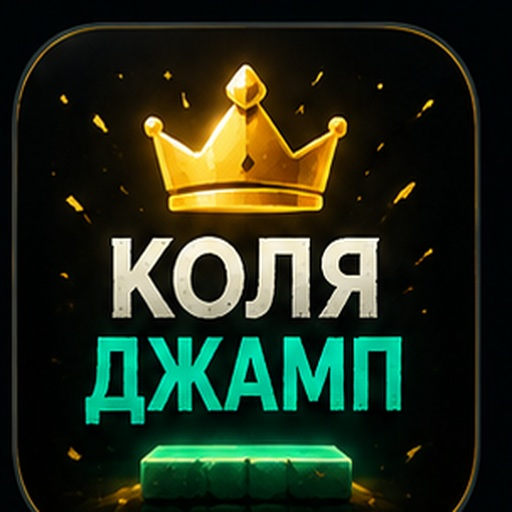
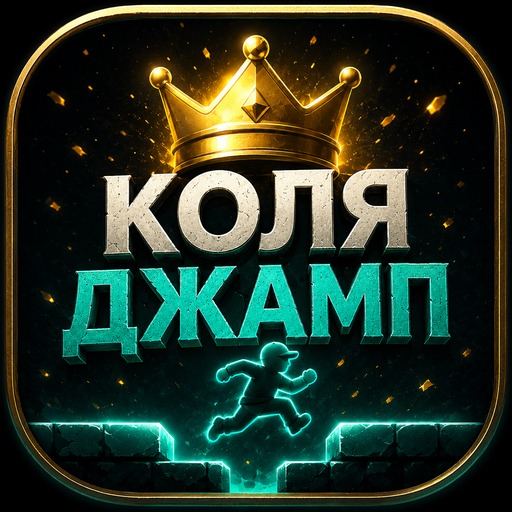
Add files via upload

diff --git a/index.html b/index.html
@@ -417,27 +417,15 @@ html,body{overscroll-behavior:none}
 @keyframes kjSpin{to{transform:rotate(360deg)}}
 </style>
 
-<style id="kolyajump-main-icon-v101">
-.kolyajumpMenuIcon,
-[data-game="kolyajump"] .gameIcon,
-[data-game="kolyajump"] .appIcon,
-#kolyajumpBtn .gameIcon,
-#kolyajumpBtn .appIcon,
-#kolyajumpBtn .icon{
-  background-image:url("./kolyajump-icon.jpg")!important;
-  background-size:cover!important;
-  background-position:center!important;
-  background-repeat:no-repeat!important;
-  color:transparent!important;
-  overflow:hidden!important;
+<style id="kj-game-tile-icon-v101">
+.kjGameTileIcon{
+  width:58px;height:58px;flex:0 0 58px;
+  border-radius:16px;overflow:hidden;
+  background:#071413;
+  box-shadow:0 5px 14px rgba(0,0,0,.16);
 }
-.kolyajumpMenuIcon img,
-[data-game="kolyajump"] .gameIcon img,
-[data-game="kolyajump"] .appIcon img,
-#kolyajumpBtn .gameIcon img,
-#kolyajumpBtn .appIcon img,
-#kolyajumpBtn .icon img{
-  width:100%!important;height:100%!important;object-fit:cover!important;
+.kjGameTileIcon img{
+  width:100%;height:100%;display:block;object-fit:cover;
 }
 </style>
 
@@ -474,7 +462,7 @@ html,body{overscroll-behavior:none}
       <div class="toprow">
         <div class="groupAvatar">Б</div>
         <div class="titleWrap">
-          <div class="brandLockup"><img class="brandLogo" src="./kolyajump-icon.jpg" alt=""><div class="brandName">КОЛЯГРАМ</div></div><div id="mode" style="display:none"></div>
+          <div class="brandLockup"><img class="brandLogo" src="./kolyagram-logo.jpg" alt=""><div class="brandName">КОЛЯГРАМ</div></div><div id="mode" style="display:none"></div>
         </div>
         
 
@@ -505,7 +493,7 @@ html,body{overscroll-behavior:none}
 
     <div id="gamesPanel" class="panel" style="display:none">
       <button id="openKolyaJump" class="chatRow" style="width:100%;text-align:left">
-        <div class="groupAvatar" style="background:linear-gradient(135deg,#81D8D0,#b8fff8);color:#07312e">↟</div>
+        <div class="kjGameTileIcon"><img src="./kolyajump-icon.jpg" alt="КоляДжамп"></div>
         <div class="body"><b>КоляДжамп</b><small>Прыгай выше · собирай бусты · бей рекорды</small></div>
         <span style="font-size:24px">›</span>
       </button>
@@ -1681,27 +1669,6 @@ document.addEventListener("touchend",unlockAllKolyagramAudio,{once:true});
 
 </script>
 
-
-
-<script id="kolyajump-main-icon-fallback-v101">
-document.addEventListener("DOMContentLoaded",()=>{
-  const all=[...document.querySelectorAll("button,a,div")];
-  const tile=all.find(el=>{
-    const t=(el.textContent||"").trim();
-    return /КоляДжамп/i.test(t) && t.length<120;
-  });
-  if(!tile)return;
-  const box=tile.querySelector(".gameIcon,.appIcon,.icon,[class*='icon'],img") || tile;
-  if(box.tagName==="IMG"){
-    box.src="./kolyajump-icon.jpg";
-  }else{
-    box.style.backgroundImage='url("./kolyajump-icon.jpg")';
-    box.style.backgroundSize="cover";
-    box.style.backgroundPosition="center";
-    box.style.backgroundRepeat="no-repeat";
-  }
-});
-</script>
 
 </body>
 </html>

diff --git a/sw.js b/sw.js
@@ -5,7 +5,7 @@ const STATIC=[
   "./icon-512.png",
   "./config.js",
   "./kolyagram-logo.jpg",
-  "./kolyajump.html","./kolyajump-icon.jpg",
+  "./kolyajump.html",
   "./kolyajump-fart.mp3",
   "./kolyajump-burp.mp3",
   "./message-dota-match.mp3",
